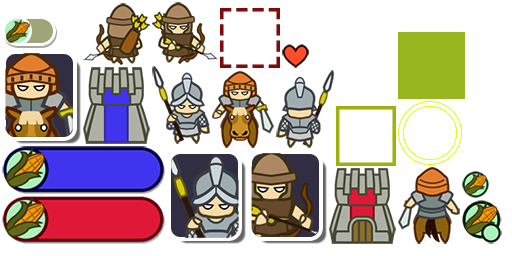
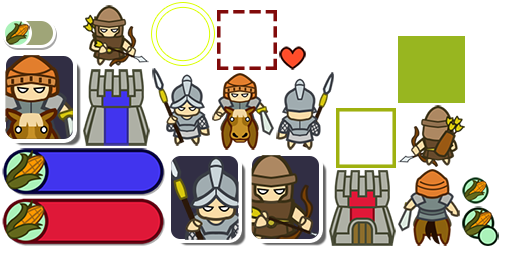
resource costing

Changed region(s): [[0.0, 0.0, 1.0, 0.9688], [0.7812, 0.125, 0.9062, 0.1562]]

diff --git a/core/src/com/olan/warmonger/units/Unit.java b/core/src/com/olan/warmonger/units/Unit.java
@@ -9,9 +9,10 @@ public class Unit extends TileObject {
 
   private UnitListener listener;
 
-  private int moveRange = 2;
-  private int attackRange = 1;
-  private int attackPoint = 2;
+  private int moveRange;
+  private int attackRange;
+  private int attackPoint;
+  private int cost;
 
   private TextureRegion textureFront;
   private TextureRegion textureBack;
@@ -26,6 +27,22 @@ public class Unit extends TileObject {
         }
       }
     });
+  }
+
+  @Override
+  public void setTeam (Team team) {
+    super.setTeam(team);
+
+    if (team == Team.BLUE) {
+      setTexture(textureBack);
+    } else if (team == Team.RED){
+      setTexture(textureFront);
+    }
+  }
+
+  public void setTextures (TextureRegion front, TextureRegion back) {
+    this.textureFront = front;
+    this.textureBack = back;
   }
 
   public void setListener (UnitListener listener) {
@@ -56,6 +73,14 @@ public class Unit extends TileObject {
     this.attackPoint = attackPoint;
   }
 
+  public int getCost () {
+    return this.cost;
+  }
+
+  public void setCost (int cost) {
+    this.cost = cost;
+  }
+
   public boolean canMoveTo (Tile tile) {
     if (getTeam() == Team.RED) {
       return (tile.getRow() < getRow())
@@ -83,22 +108,6 @@ public class Unit extends TileObject {
     setOnTile(tile);
 
     return false;
-  }
-
-  @Override
-  public void setTeam (Team team) {
-    super.setTeam(team);
-
-    if (team == Team.BLUE) {
-      setTexture(textureBack);
-    } else if (team == Team.RED){
-      setTexture(textureFront);
-    }
-  }
-
-  public void setTextures (TextureRegion front, TextureRegion back) {
-    this.textureFront = front;
-    this.textureBack = back;
   }
 
   public interface UnitListener {

diff --git a/core/src/com/olan/warmonger/states/StateUnitCreating.java b/core/src/com/olan/warmonger/states/StateUnitCreating.java
@@ -7,6 +7,7 @@ public class StateUnitCreating implements GameDriven.State {
   private Map map;
   private Unit createdUnit;
   private Tile tile;
+  Player currentPlayer;
 
   public StateUnitCreating (Map map, Unit unit) {
     this.map = map;
@@ -33,7 +34,10 @@ public class StateUnitCreating implements GameDriven.State {
       }
     }
 
-    if (tileEmpty) {
+    currentPlayer =
+        map.getCurrentTeam() == Team.BLUE ? map.getBluePlayer() : map.getRedPlayer();
+
+    if (tileEmpty && currentPlayer.getResources() >= createdUnit.getCost()) {
       createdUnit.setTeam(map.getCurrentTeam());
       createdUnit.setTouchable(Touchable.disabled);
       map.addActor(createdUnit);
@@ -63,8 +67,9 @@ public class StateUnitCreating implements GameDriven.State {
   public void onTileClicked (Tile tile, int row, int column) {
     if (tile.isSelectionVisible()) {
       createdUnit.setOnTile(tile);
-      map.addUnit(createdUnit);
       createdUnit.setTouchable(Touchable.enabled);
+      currentPlayer.setResources(currentPlayer.getResources() - createdUnit.getCost());
+      map.addUnit(createdUnit);
 
       map.setState(new ActionEndTurn(map, map.getCurrentTeam()));
     }

diff --git a/core/src/com/olan/warmonger/units/Cavalry.java b/core/src/com/olan/warmonger/units/Cavalry.java
@@ -8,6 +8,7 @@ public class Cavalry extends Unit {
   private static final int ATTACK_POINT = 3;
   private static final int ATTACK_RANGE = 2;
   private static final int MOVE_RANGE = 2;
+  private static final int COST = 5;
 
   public Cavalry () {
     setTextures(Assets.cavalryFront, Assets.cavalryBack);
@@ -16,6 +17,7 @@ public class Cavalry extends Unit {
     setAttackPoint(ATTACK_POINT);
     setAttackRange(ATTACK_RANGE);
     setMoveRange(MOVE_RANGE);
+    setCost(COST);
   }
 
   @Override

diff --git a/core/src/com/olan/warmonger/units/PikeMan.java b/core/src/com/olan/warmonger/units/PikeMan.java
@@ -8,6 +8,7 @@ public class PikeMan extends Unit {
   private static final int ATTACK_POINT = 2;
   private static final int ATTACK_RANGE = 1;
   private static final int MOVE_RANGE = 1;
+  private static final int COST = 3;
 
   public PikeMan () {
     setTextures(Assets.pikemanFront, Assets.pikemanBack);
@@ -16,6 +17,7 @@ public class PikeMan extends Unit {
     setAttackPoint(ATTACK_POINT);
     setAttackRange(ATTACK_RANGE);
     setMoveRange(MOVE_RANGE);
+    setCost(COST);
   }
 
   @Override

diff --git a/core/src/com/olan/warmonger/units/Archer.java b/core/src/com/olan/warmonger/units/Archer.java
@@ -8,6 +8,7 @@ public class Archer extends Unit {
   private static final int ATTACK_POINT = 2;
   private static final int ATTACK_RANGE = 2;
   private static final int MOVE_RANGE = 1;
+  private static final int COST = 4;
 
   public Archer () {
     setTextures(Assets.archerFront, Assets.archerBack);
@@ -16,6 +17,7 @@ public class Archer extends Unit {
     setAttackPoint(ATTACK_POINT);
     setAttackRange(ATTACK_RANGE);
     setMoveRange(MOVE_RANGE);
+    setCost(COST);
   }
 
   @Override

diff --git a/core/src/com/olan/warmonger/Player.java b/core/src/com/olan/warmonger/Player.java
@@ -4,6 +4,8 @@ import com.badlogic.gdx.graphics.g2d.Batch;
 import com.badlogic.gdx.graphics.g2d.TextureRegion;
 
 public class Player extends GameObject {
+  private static int INIT_COST = 10;
+
   private Team team;
 
   private int resources;
@@ -12,6 +14,7 @@ public class Player extends GameObject {
 
   public Player (Team team) {
     this.team = team;
+    resources = INIT_COST;
 
     setX(270);
     if (team == Team.BLUE) {
